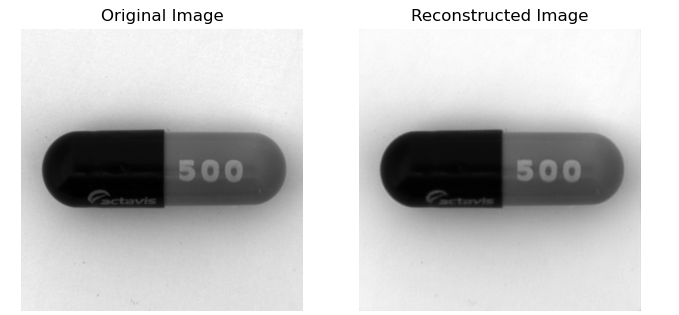
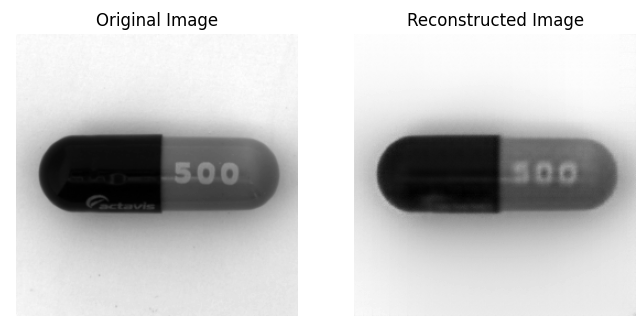
final updates

diff --git a/ImageAnomalyDetectionAutoencoder/README.md b/ImageAnomalyDetectionAutoencoder/README.md
@@ -1,6 +1,6 @@
 # Autoencoder for Anomaly Detection in Manufacturing Images
 
-This project focuses on developing an autoencoder for anomaly detection in manufacturing images. The autoencoder is trained to reconstruct normal images, with reconstruction error used as a criterion for anomaly detection.
+This project implements an autoencoder-based approach for unsupervised anomaly detection in drug capsule manufacturing images. The model is trained to reconstruct normal samples, and deviations in reconstruction quality are used to identify potential anomalies.
 
 ## MVTEC Anomaly Detection Dataset Citation
 Paul Bergmann, Michael Fauser, David Sattlegger, and Carsten Steger,
@@ -13,62 +13,67 @@ IEEE Conference on Computer Vision and Pattern Recognition, 2019
 - **Goal**: Detect anomalies in drug capsule images by identifying high reconstruction errors from an autoencoder model.
 
 - **Dataset**:
-  - 219 training images, all taken from consistent conditions (distance, orientation, etc.).
-  - Test dataset includes images with and without anomalies.
+  - Using a subset of the MVTEC dataset that features images of drug capsules.
+  - Training set contains 219 clean (non-defective) images captured under consistent conditions (distance, orientation, etc.).
+  - Test dataset includes both normal and anomalous samples (e.g., cracks, contamination, or foreign objects)..
+  - Split the training images into a training and validation set (80/20 split).
 
 ## Autoencoder Design
-
 - **Architecture**:
   - **Encoder**:
-    - 3 convolutional layers with strided convolutions for downsampling.
-    - Channel progression: \(1 \rightarrow 32 \rightarrow 64 \rightarrow 128).
+    - 4 convolutional layers with strided convolutions for downsampling.
+    - Channel progression: 1->32->64->128->256.
     - ReLU activation and Batch Normalization after each convolution.
-    - Dropout applied to encoder to prevent overfitting.
+    - Slight dropout of 0.1 applied to encoder to prevent overfitting.
   - **Decoder**:
-    - 3 deconvolutional layers mirroring the encoder's channel progression.
+    - 4 deconvolutional layers mirroring the encoder's channel progression.
     - ReLU activation and Batch Normalization after each layer, except the final layer.
     - Final layer uses a Sigmoid activation to normalize outputs to \([0, 1]\).
-  - **Loss Function**: Mean Squared Error (MSE) between input and reconstructed images.
-
+  
 - **Design Decisions**:
   - Initial experiments with max pooling layers were reverted in favor of strided convolutions, which produced sharper reconstructions.
-  - Depth of the encoder-decoder architecture was fine-tuned to avoid overfitting, given the small dataset size.
-  - Batch size decreased from 32 to 16, improving reconstruction quality for the small dataset.
+  - Depth of the encoder-decoder architecture was fine-tuned to avoid overfitting, given the small dataset size. Initially only three convolutional layers were employed, but the model was underfitting.
+  - Batch size decreased from 32 to 16 to 8, improving reconstruction quality for the small dataset.
+  - Tested different resize dimensions for the images being fed into the autoencoder and settled on 256x256 that seemed to best balance computing resources with performance
 
 ## Training Process
 
 - **Optimization**:
-  - Optimizer: Adam with weight decay (L2 regularization).
+  - Optimizer: AdamW with weight decay of 0.001 (L2 regularization).
   - Learning Rate: \(0.001\) with ReduceLROnPlateau scheduler to dynamically adjust learning rate based on validation loss.
 - **Data Augmentation**:
-  - Due to the uniformity of the dataset, the only transforms applied were converting to grayscale and resize to 512x512.
-- **Epochs**: Trained for 100 epochs, saving the best model based on training loss.
+  - Due to the uniformity of the dataset, the only transforms applied were converting to grayscale and resize to 256x256.
+- **Epochs**: Trained for 150 epochs, saving the best model based on validation loss.
+- **Loss Function**: Mean Squared Error (MSE) between input and reconstructed images.
+- **Save Model**: Save the best performing model based on validation loss.
+
+- The below plot shows that the Autoencoder converged to a solution around epoch 50 and was steady throughout the remaining of the training.
+![TrainingResults](TrainingProgress.png)
 
 ## Anomaly Detection
 
 - **Reconstruction Error**:
   - Reconstruction error is calculated as the pixel-wise mean squared error between the input and reconstructed images.
-  - A threshold is used to classify images as normal or anomalous.
-
-- **Threshold Tuning**:
-  - Histograms of reconstruction errors guided threshold selection.
-  - Experimented with thresholds (\(0.0001\), \(7.5e-05\), \(5e-05\)) to optimize precision, recall, and F1 score.
-  - The **optimal threshold** depends on the requirements of the problem:
-    - **Minimizing false negatives**: Use a lower threshold to ensure anomalies are detected, at the cost of more false positives.
-    - **Minimizing false positives**: Use a higher threshold to avoid false alarms, at the cost of missing some anomalies.
-
-- **Performance Metrics**:
-  - Accuracy, Precision, Recall, and F1 Score evaluated on the test set.
+  - A tunable threshold is used to classify images as normal or anomalous.
+  - A tunable threshold to classify images as normal or anomalous based on reconstruction MSE was selected by maximizing the F1 score on the test set using the precision-recall curve.
 
 ## Results
+- **Precision-Recall Curve**:
+- A precision-recall curve was constructed to determine the best anomaly threshold for maximizing the F1-score of the data on the test set.
 
-- **Best Reconstruction Quality**:
-  - Achieved after reducing batch size to 16.
-  - Small reconstruction errors for normal images (\(< 0.00075\)).
+![PRCurve](PR_plot.png)
 
-- **Anomaly Detection Performance**:
-  - Precision, recall, and F1 scores varied significantly with the threshold.
-  - Threshold tuning remains critical for optimizing detection performance.
+- **Performance Metrics**:
+  - Accuracy, Precision, Recall, and F1 Score were evaluated on the best threshold.
+  
+### Test Set Metrics (Threshold: MSE = 0.000064)
+- **Accuracy**: 81.82%  
+- **Precision**: 82.44%  
+- **Recall**: 99.08%  
+- **F1 Score**: **0.90**  
+- **AUC**: **0.8119**
+
+- These results demonstrate the autoencoder's strong ability to detect anomalies with high recall, making it suitable for safety-critical inspection tasks.
 
 ## Future Work
 
